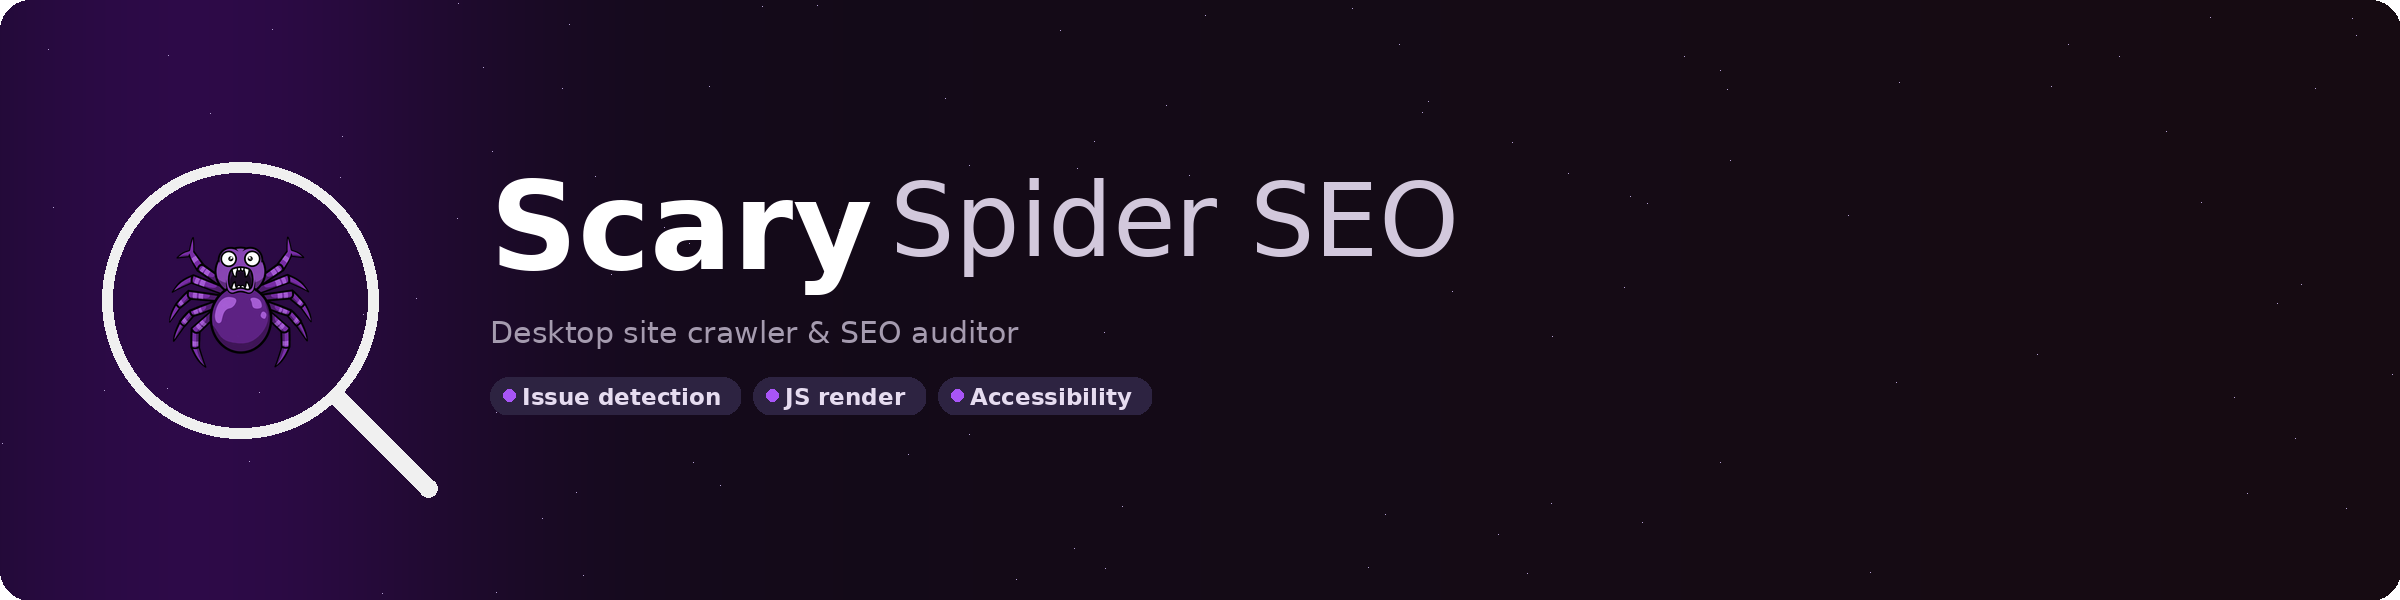
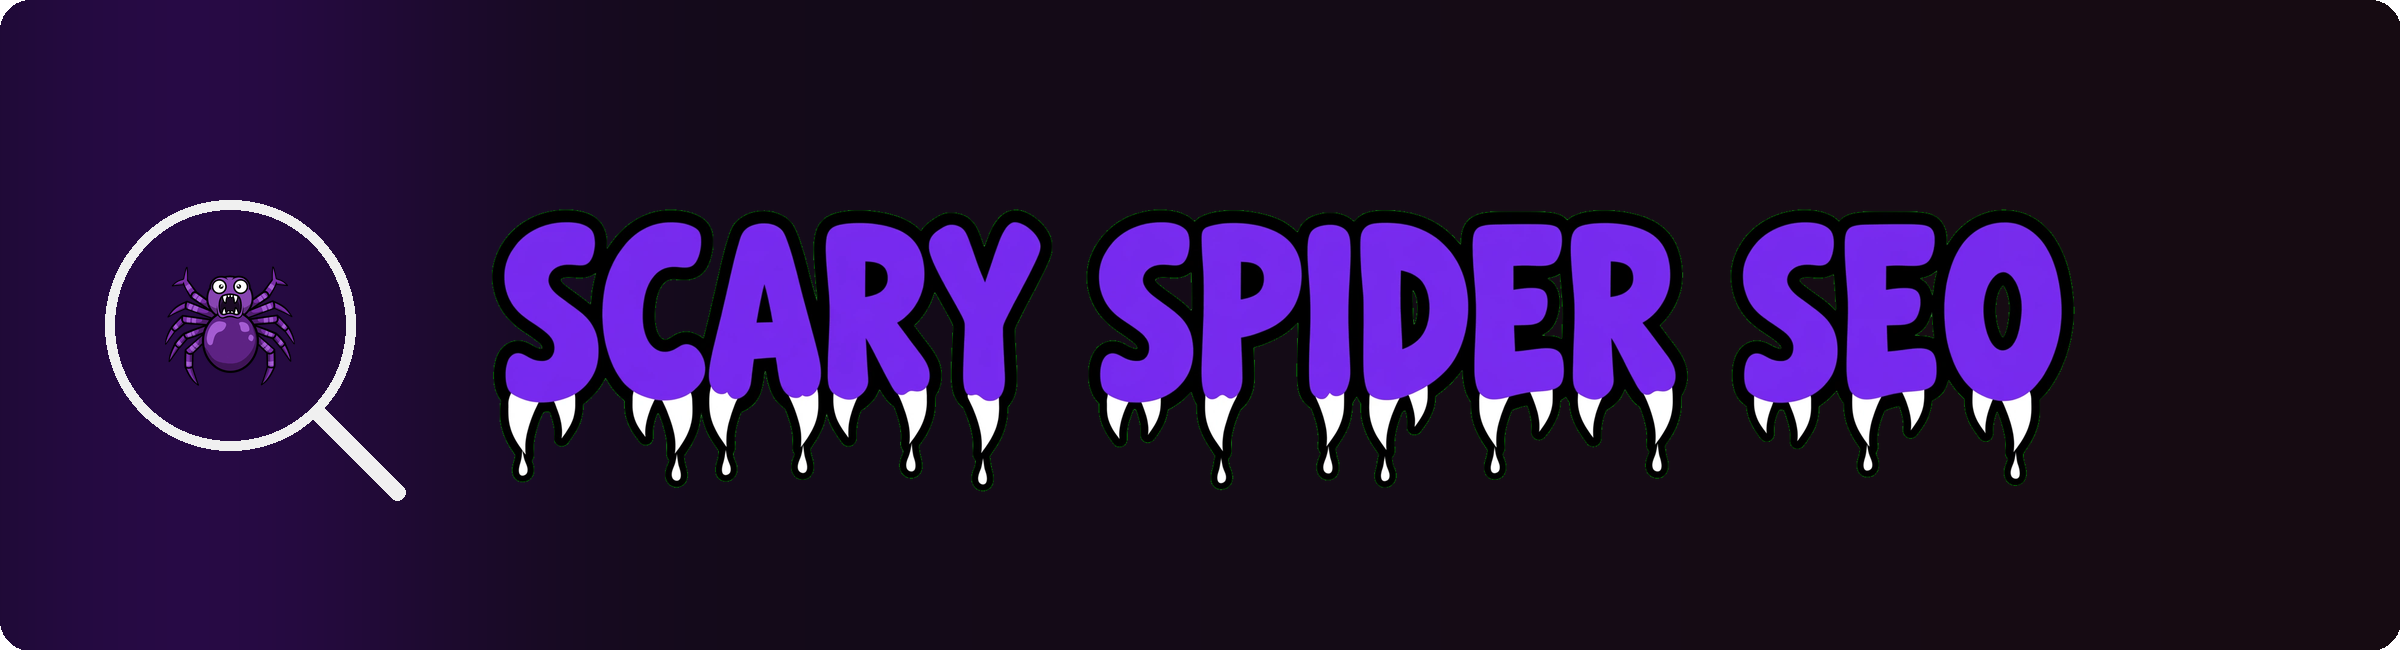
Rebrand app to Scary Spider SEO with purple comic-book UI theme
- Rename product from GSEO Crawler to Scary Spider SEO across README,
  package.json, Tauri config, release workflow, user agent string, and
  in-app strings so branding is consistent everywhere users see it.
- Replace header title with wordmark logo image and add new brand assets.
- Introduce comic-panel/comic-wobble utilities and a purple oklch palette
  to give buttons, cards, badges, dialogs, and sheets a hand-drawn,
  sticker-style look consistent with the new mascot branding.

diff --git a/src/index.css b/src/index.css
@@ -49,72 +49,74 @@
 }
 
 :root {
-    --background: oklch(1 0 0);
-    --foreground: oklch(0.145 0 0);
+    --background: oklch(0.99 0.005 293);
+    --foreground: oklch(0.16 0.02 293);
     --card: oklch(1 0 0);
-    --card-foreground: oklch(0.145 0 0);
+    --card-foreground: oklch(0.16 0.02 293);
     --popover: oklch(1 0 0);
-    --popover-foreground: oklch(0.145 0 0);
-    --primary: oklch(0.205 0 0);
-    --primary-foreground: oklch(0.985 0 0);
-    --secondary: oklch(0.97 0 0);
-    --secondary-foreground: oklch(0.205 0 0);
-    --muted: oklch(0.97 0 0);
-    --muted-foreground: oklch(0.556 0 0);
-    --accent: oklch(0.97 0 0);
-    --accent-foreground: oklch(0.205 0 0);
+    --popover-foreground: oklch(0.16 0.02 293);
+    --primary: oklch(0.541 0.281 293.009);
+    --primary-foreground: oklch(0.99 0 0);
+    --secondary: oklch(0.955 0.015 293);
+    --secondary-foreground: oklch(0.32 0.05 293);
+    --muted: oklch(0.965 0.012 293);
+    --muted-foreground: oklch(0.5 0.03 293);
+    --accent: oklch(0.93 0.035 293);
+    --accent-foreground: oklch(0.541 0.281 293.009);
     --destructive: oklch(0.577 0.245 27.325);
-    --border: oklch(0.922 0 0);
-    --input: oklch(0.922 0 0);
-    --ring: oklch(0.708 0 0);
+    --border: oklch(0.9 0.02 293);
+    --input: oklch(0.9 0.02 293);
+    --ring: oklch(0.606 0.25 292.717);
     --chart-1: oklch(0.87 0 0);
     --chart-2: oklch(0.556 0 0);
     --chart-3: oklch(0.439 0 0);
     --chart-4: oklch(0.371 0 0);
     --chart-5: oklch(0.269 0 0);
-    --radius: 0.625rem;
-    --sidebar: oklch(0.985 0 0);
-    --sidebar-foreground: oklch(0.145 0 0);
-    --sidebar-primary: oklch(0.205 0 0);
-    --sidebar-primary-foreground: oklch(0.985 0 0);
-    --sidebar-accent: oklch(0.97 0 0);
-    --sidebar-accent-foreground: oklch(0.205 0 0);
-    --sidebar-border: oklch(0.922 0 0);
-    --sidebar-ring: oklch(0.708 0 0);
+    --radius: 1rem;
+    --comic-ink: oklch(0.09 0.02 293);
+    --sidebar: oklch(0.97 0.012 293);
+    --sidebar-foreground: oklch(0.16 0.02 293);
+    --sidebar-primary: oklch(0.541 0.281 293.009);
+    --sidebar-primary-foreground: oklch(0.99 0 0);
+    --sidebar-accent: oklch(0.93 0.035 293);
+    --sidebar-accent-foreground: oklch(0.541 0.281 293.009);
+    --sidebar-border: oklch(0.9 0.02 293);
+    --sidebar-ring: oklch(0.606 0.25 292.717);
 }
 
 .dark {
-    --background: oklch(0.145 0 0);
+    --background: oklch(0.145 0.025 293);
     --foreground: oklch(0.985 0 0);
-    --card: oklch(0.205 0 0);
+    --card: oklch(0.205 0.035 293);
     --card-foreground: oklch(0.985 0 0);
-    --popover: oklch(0.205 0 0);
+    --popover: oklch(0.205 0.035 293);
     --popover-foreground: oklch(0.985 0 0);
-    --primary: oklch(0.922 0 0);
-    --primary-foreground: oklch(0.205 0 0);
-    --secondary: oklch(0.269 0 0);
+    --primary: oklch(0.606 0.25 292.717);
+    --primary-foreground: oklch(0.985 0 0);
+    --secondary: oklch(0.269 0.035 293);
     --secondary-foreground: oklch(0.985 0 0);
-    --muted: oklch(0.269 0 0);
-    --muted-foreground: oklch(0.708 0 0);
-    --accent: oklch(0.269 0 0);
+    --muted: oklch(0.269 0.035 293);
+    --muted-foreground: oklch(0.708 0.025 293);
+    --accent: oklch(0.32 0.06 293);
     --accent-foreground: oklch(0.985 0 0);
     --destructive: oklch(0.704 0.191 22.216);
-    --border: oklch(1 0 0 / 10%);
-    --input: oklch(1 0 0 / 15%);
-    --ring: oklch(0.556 0 0);
+    --border: oklch(0.7 0.04 293 / 15%);
+    --input: oklch(0.7 0.04 293 / 18%);
+    --ring: oklch(0.606 0.25 292.717);
     --chart-1: oklch(0.87 0 0);
     --chart-2: oklch(0.556 0 0);
     --chart-3: oklch(0.439 0 0);
     --chart-4: oklch(0.371 0 0);
     --chart-5: oklch(0.269 0 0);
-    --sidebar: oklch(0.205 0 0);
+    --sidebar: oklch(0.18 0.03 293);
     --sidebar-foreground: oklch(0.985 0 0);
-    --sidebar-primary: oklch(0.488 0.243 264.376);
+    --sidebar-primary: oklch(0.606 0.25 292.717);
     --sidebar-primary-foreground: oklch(0.985 0 0);
-    --sidebar-accent: oklch(0.269 0 0);
+    --sidebar-accent: oklch(0.32 0.06 293);
     --sidebar-accent-foreground: oklch(0.985 0 0);
-    --sidebar-border: oklch(1 0 0 / 10%);
-    --sidebar-ring: oklch(0.556 0 0);
+    --sidebar-border: oklch(0.7 0.04 293 / 12%);
+    --sidebar-ring: oklch(0.606 0.25 292.717);
+    --comic-ink: oklch(0.9 0.03 293);
 }
 
 @layer base {
@@ -127,6 +129,43 @@
   html {
     @apply font-sans;
     }
+}
+
+/* "Chrome" cartoon styling — thick ink outline + offset sticker shadow +
+   playful press/wobble. Applied to buttons/cards/badges/modals (the app
+   chrome), deliberately NOT to the dense data table so hundreds of rows
+   stay scannable. Defined with @utility (not a plain class) so they win
+   the cascade the same way Tailwind's own utilities do. */
+@utility comic-panel {
+  box-shadow: 4px 4px 0 0 var(--comic-ink);
+  transition: box-shadow 150ms ease;
+  &:hover {
+    box-shadow: 6px 7px 0 0 var(--comic-ink);
+  }
+  &:active {
+    box-shadow: 2px 2px 0 0 var(--comic-ink);
+  }
+}
+
+@utility comic-panel-sm {
+  box-shadow: 2px 2px 0 0 var(--comic-ink);
+  transition: box-shadow 150ms ease;
+  &:hover {
+    box-shadow: 3px 3px 0 0 var(--comic-ink);
+  }
+  &:active {
+    box-shadow: 1px 1px 0 0 var(--comic-ink);
+  }
+}
+
+@utility comic-wobble {
+  transition: transform 150ms cubic-bezier(0.34, 1.56, 0.64, 1);
+  &:hover {
+    transform: translate(-2px, -3px) rotate(-1deg);
+  }
+  &:active {
+    transform: translate(1px, 1px) rotate(0deg);
+  }
 }
 
 /* Thin native scrollbars (e.g. the data table's horizontal/vertical scroll) —

diff --git a/src/components/ui/button.tsx b/src/components/ui/button.tsx
@@ -4,19 +4,20 @@ import { cn } from "cn"
 import { Slot } from "radix-ui"
 
 const buttonVariants = cva(
-  "group/button inline-flex shrink-0 items-center justify-center rounded-lg border border-transparent bg-clip-padding text-sm font-medium whitespace-nowrap transition-all outline-none select-none focus-visible:border-ring focus-visible:ring-3 focus-visible:ring-ring/50 active:not-aria-[haspopup]:translate-y-px disabled:pointer-events-none disabled:opacity-50 aria-invalid:border-destructive aria-invalid:ring-3 aria-invalid:ring-destructive/20 dark:aria-invalid:border-destructive/50 dark:aria-invalid:ring-destructive/40 [&_svg]:pointer-events-none [&_svg]:shrink-0 [&_svg:not([class*='size-'])]:size-4",
+  "group/button comic-wobble inline-flex shrink-0 items-center justify-center rounded-lg border border-transparent bg-clip-padding text-sm font-medium whitespace-nowrap transition-all outline-none select-none focus-visible:border-ring focus-visible:ring-3 focus-visible:ring-ring/50 disabled:pointer-events-none disabled:opacity-50 aria-invalid:border-destructive aria-invalid:ring-3 aria-invalid:ring-destructive/20 dark:aria-invalid:border-destructive/50 dark:aria-invalid:ring-destructive/40 [&_svg]:pointer-events-none [&_svg]:shrink-0 [&_svg:not([class*='size-'])]:size-4",
   {
     variants: {
       variant: {
-        default: "bg-primary text-primary-foreground hover:bg-primary/80",
+        default:
+          "comic-panel border-[3px]! border-(--comic-ink)! bg-primary text-primary-foreground hover:bg-primary/90",
         outline:
-          "border-border bg-background hover:bg-muted hover:text-foreground aria-expanded:bg-muted aria-expanded:text-foreground dark:border-input dark:bg-input/30 dark:hover:bg-input/50",
+          "comic-panel border-[3px]! border-(--comic-ink)! bg-background hover:bg-muted hover:text-foreground aria-expanded:bg-muted aria-expanded:text-foreground dark:bg-input/30 dark:hover:bg-input/50",
         secondary:
-          "bg-secondary text-secondary-foreground hover:bg-[color-mix(in_oklch,var(--secondary),var(--foreground)_5%)] aria-expanded:bg-secondary aria-expanded:text-secondary-foreground",
+          "comic-panel border-[3px]! border-(--comic-ink)! bg-secondary text-secondary-foreground hover:bg-[color-mix(in_oklch,var(--secondary),var(--foreground)_5%)] aria-expanded:bg-secondary aria-expanded:text-secondary-foreground",
         ghost:
           "hover:bg-muted hover:text-foreground aria-expanded:bg-muted aria-expanded:text-foreground dark:hover:bg-muted/50",
         destructive:
-          "bg-destructive/10 text-destructive hover:bg-destructive/20 focus-visible:border-destructive/40 focus-visible:ring-destructive/20 dark:bg-destructive/20 dark:hover:bg-destructive/30 dark:focus-visible:ring-destructive/40",
+          "comic-panel border-[3px]! border-(--comic-ink)! bg-destructive/10 text-destructive hover:bg-destructive/20 focus-visible:ring-destructive/20 dark:bg-destructive/20 dark:hover:bg-destructive/30 dark:focus-visible:ring-destructive/40",
         link: "text-primary underline-offset-4 hover:underline",
       },
       size: {

diff --git a/src/components/ui/sheet.tsx b/src/components/ui/sheet.tsx
@@ -62,7 +62,7 @@ function SheetContent({
         data-slot="sheet-content"
         data-side={side}
         className={cn(
-          "fixed z-50 flex flex-col gap-4 bg-popover bg-clip-padding text-sm text-popover-foreground shadow-lg transition duration-200 ease-in-out data-[side=bottom]:inset-x-0 data-[side=bottom]:bottom-0 data-[side=bottom]:h-auto data-[side=bottom]:border-t data-[side=left]:inset-y-0 data-[side=left]:left-0 data-[side=left]:h-full data-[side=left]:w-3/4 data-[side=left]:border-r data-[side=right]:inset-y-0 data-[side=right]:right-0 data-[side=right]:h-full data-[side=right]:w-3/4 data-[side=right]:border-l data-[side=top]:inset-x-0 data-[side=top]:top-0 data-[side=top]:h-auto data-[side=top]:border-b data-[side=left]:sm:max-w-sm data-[side=right]:sm:max-w-sm data-open:animate-in data-open:fade-in-0 data-[side=bottom]:data-open:slide-in-from-bottom-10 data-[side=left]:data-open:slide-in-from-left-10 data-[side=right]:data-open:slide-in-from-right-10 data-[side=top]:data-open:slide-in-from-top-10 data-closed:animate-out data-closed:fade-out-0 data-[side=bottom]:data-closed:slide-out-to-bottom-10 data-[side=left]:data-closed:slide-out-to-left-10 data-[side=right]:data-closed:slide-out-to-right-10 data-[side=top]:data-closed:slide-out-to-top-10",
+          "fixed z-50 flex flex-col gap-4 border-(--comic-ink)! bg-popover bg-clip-padding text-sm text-popover-foreground shadow-lg transition duration-200 ease-in-out data-[side=bottom]:inset-x-0 data-[side=bottom]:bottom-0 data-[side=bottom]:h-auto data-[side=bottom]:border-t-[3px]! data-[side=left]:inset-y-0 data-[side=left]:left-0 data-[side=left]:h-full data-[side=left]:w-3/4 data-[side=left]:border-r-[3px]! data-[side=right]:inset-y-0 data-[side=right]:right-0 data-[side=right]:h-full data-[side=right]:w-3/4 data-[side=right]:border-l-[3px]! data-[side=top]:inset-x-0 data-[side=top]:top-0 data-[side=top]:h-auto data-[side=top]:border-b-[3px]! data-[side=left]:sm:max-w-sm data-[side=right]:sm:max-w-sm data-open:animate-in data-open:fade-in-0 data-[side=bottom]:data-open:slide-in-from-bottom-10 data-[side=left]:data-open:slide-in-from-left-10 data-[side=right]:data-open:slide-in-from-right-10 data-[side=top]:data-open:slide-in-from-top-10 data-closed:animate-out data-closed:fade-out-0 data-[side=bottom]:data-closed:slide-out-to-bottom-10 data-[side=left]:data-closed:slide-out-to-left-10 data-[side=right]:data-closed:slide-out-to-right-10 data-[side=top]:data-closed:slide-out-to-top-10",
           className
         )}
         {...props}

diff --git a/src/components/ui/badge.tsx b/src/components/ui/badge.tsx
@@ -4,17 +4,18 @@ import { cn } from "cn"
 import { Slot } from "radix-ui"
 
 const badgeVariants = cva(
-  "group/badge inline-flex h-5 w-fit shrink-0 items-center justify-center gap-1 overflow-hidden rounded-4xl border border-transparent px-2 py-0.5 text-xs font-medium whitespace-nowrap transition-all focus-visible:border-ring focus-visible:ring-[3px] focus-visible:ring-ring/50 has-data-[icon=inline-end]:pr-1.5 has-data-[icon=inline-start]:pl-1.5 aria-invalid:border-destructive aria-invalid:ring-destructive/20 dark:aria-invalid:ring-destructive/40 [&>svg]:pointer-events-none [&>svg]:size-3!",
+  "group/badge comic-wobble inline-flex h-5 w-fit shrink-0 items-center justify-center gap-1 overflow-hidden rounded-4xl border border-transparent px-2 py-0.5 text-xs font-medium whitespace-nowrap transition-all focus-visible:border-ring focus-visible:ring-[3px] focus-visible:ring-ring/50 has-data-[icon=inline-end]:pr-1.5 has-data-[icon=inline-start]:pl-1.5 aria-invalid:border-destructive aria-invalid:ring-destructive/20 dark:aria-invalid:ring-destructive/40 [&>svg]:pointer-events-none [&>svg]:size-3!",
   {
     variants: {
       variant: {
-        default: "bg-primary text-primary-foreground [a]:hover:bg-primary/80",
+        default:
+          "comic-panel-sm border-2! border-(--comic-ink)! bg-primary text-primary-foreground [a]:hover:bg-primary/80",
         secondary:
-          "bg-secondary text-secondary-foreground [a]:hover:bg-secondary/80",
+          "comic-panel-sm border-2! border-(--comic-ink)! bg-secondary text-secondary-foreground [a]:hover:bg-secondary/80",
         destructive:
-          "bg-destructive/10 text-destructive focus-visible:ring-destructive/20 dark:bg-destructive/20 dark:focus-visible:ring-destructive/40 [a]:hover:bg-destructive/20",
+          "comic-panel-sm border-2! border-(--comic-ink)! bg-destructive/10 text-destructive focus-visible:ring-destructive/20 dark:bg-destructive/20 dark:focus-visible:ring-destructive/40 [a]:hover:bg-destructive/20",
         outline:
-          "border-border text-foreground [a]:hover:bg-muted [a]:hover:text-muted-foreground",
+          "comic-panel-sm border-2! border-(--comic-ink)! text-foreground [a]:hover:bg-muted [a]:hover:text-muted-foreground",
         ghost:
           "hover:bg-muted hover:text-muted-foreground dark:hover:bg-muted/50",
         link: "text-primary underline-offset-4 hover:underline",

diff --git a/src/App.tsx b/src/App.tsx
@@ -430,7 +430,7 @@ function App() {
         const message = running
           ? "A crawl is currently running. Quitting now will stop it and lose progress. Quit anyway?"
           : "You have crawl results that haven't been saved. Quit anyway?";
-        const confirmed = await ask(message, { title: "Quit GSEO Crawler?", kind: "warning" });
+        const confirmed = await ask(message, { title: "Quit Scary Spider SEO?", kind: "warning" });
         if (!confirmed) {
           event.preventDefault();
         }
@@ -511,7 +511,7 @@ function App() {
   const handleSaveCrawl = useCallback(async () => {
     try {
       const path = await save({
-        filters: [{ name: "GSEO Crawl", extensions: ["json"] }],
+        filters: [{ name: "Scary Spider SEO Crawl", extensions: ["json"] }],
         defaultPath: "crawl.json",
       });
       if (!path) return;
@@ -525,7 +525,7 @@ function App() {
     try {
       const path = await open({
         multiple: false,
-        filters: [{ name: "GSEO Crawl", extensions: ["json"] }],
+        filters: [{ name: "Scary Spider SEO Crawl", extensions: ["json"] }],
       });
       if (!path || typeof path !== "string") return;
       const snapshot = await invoke<CrawlSnapshot>("load_crawl", { path });
@@ -598,8 +598,10 @@ function App() {
 
   return (
     <div className="flex h-screen flex-col">
-      <header className="flex items-center gap-2.5 border-b bg-card px-4 py-2.5">
-        <h1 className="text-sm font-semibold whitespace-nowrap">GSEO Crawler</h1>
+      <header className="flex items-center gap-2.5 border-b-[3px]! border-(--comic-ink)! bg-card px-4 py-2">
+        <h1>
+          <img src="/logo-wordmark.png" alt="Scary Spider SEO" className="h-24 w-auto" />
+        </h1>
         <UrlCombobox
           value={config.startUrl}
           disabled={running}

diff --git a/src/components/ui/card.tsx b/src/components/ui/card.tsx
@@ -11,7 +11,7 @@ function Card({
       data-slot="card"
       data-size={size}
       className={cn(
-        "group/card flex flex-col gap-(--card-spacing) overflow-hidden rounded-xl bg-card py-(--card-spacing) text-sm text-card-foreground ring-1 ring-foreground/10 [--card-spacing:--spacing(4)] has-data-[slot=card-footer]:pb-0 has-[>img:first-child]:pt-0 data-[size=sm]:[--card-spacing:--spacing(3)] data-[size=sm]:has-data-[slot=card-footer]:pb-0 *:[img:first-child]:rounded-t-xl *:[img:last-child]:rounded-b-xl",
+        "group/card comic-panel flex flex-col gap-(--card-spacing) overflow-hidden rounded-xl border-[3px]! border-(--comic-ink)! bg-card py-(--card-spacing) text-sm text-card-foreground [--card-spacing:--spacing(4)] has-data-[slot=card-footer]:pb-0 has-[>img:first-child]:pt-0 data-[size=sm]:[--card-spacing:--spacing(3)] data-[size=sm]:has-data-[slot=card-footer]:pb-0 *:[img:first-child]:rounded-t-xl *:[img:last-child]:rounded-b-xl",
         className
       )}
       {...props}

diff --git a/src/components/ui/dialog.tsx b/src/components/ui/dialog.tsx
@@ -59,7 +59,7 @@ function DialogContent({
       <DialogPrimitive.Content
         data-slot="dialog-content"
         className={cn(
-          "fixed top-1/2 left-1/2 z-50 grid w-full max-w-[calc(100%-2rem)] -translate-x-1/2 -translate-y-1/2 gap-4 rounded-xl bg-popover p-4 text-sm text-popover-foreground ring-1 ring-foreground/10 duration-100 outline-none sm:max-w-sm data-open:animate-in data-open:fade-in-0 data-open:zoom-in-95 data-closed:animate-out data-closed:fade-out-0 data-closed:zoom-out-95",
+          "comic-panel fixed top-1/2 left-1/2 z-50 grid w-full max-w-[calc(100%-2rem)] -translate-x-1/2 -translate-y-1/2 gap-4 rounded-xl border-[3px]! border-(--comic-ink)! bg-popover p-4 text-sm text-popover-foreground duration-100 outline-none sm:max-w-sm data-open:animate-in data-open:fade-in-0 data-open:zoom-in-95 data-closed:animate-out data-closed:fade-out-0 data-closed:zoom-out-95",
           className
         )}
         {...props}

diff --git a/src/components/DetailModal.tsx b/src/components/DetailModal.tsx
@@ -63,7 +63,7 @@ export function DetailModal({ title, fields, issues, onClose }: DetailModalProps
                 </CollapsibleTrigger>
                 <CollapsibleContent className="flex flex-col gap-3">
                   {issues.map((issue) => (
-                    <div key={issue.title} className="flex flex-col gap-1 rounded-md bg-card p-3 ring-1 ring-foreground/10">
+                    <div key={issue.title} className="comic-panel-sm flex flex-col gap-1 rounded-md border-2! border-(--comic-ink)! bg-card p-3">
                       <div className="text-sm font-medium">{issue.title}</div>
                       <p className="text-sm text-muted-foreground">{issue.problem}</p>
                       <p className="text-sm">{issue.fix}</p>

diff --git a/src/components/Overview.tsx b/src/components/Overview.tsx
@@ -60,8 +60,8 @@ function StatTile({
       type="button"
       onClick={onClick}
       className={cn(
-        "flex flex-col items-start gap-0 rounded-lg px-3 py-1.5 text-left ring-1 ring-foreground/10 transition-colors hover:bg-muted/60",
-        active && "bg-muted ring-ring/50",
+        "comic-panel-sm comic-wobble flex flex-col items-start gap-0 rounded-lg border-2! border-(--comic-ink)! px-3 py-1.5 text-left transition-colors hover:bg-muted/60",
+        active && "bg-muted",
       )}
     >
       <span className={cn("text-lg leading-tight font-semibold", tone && TONE_TEXT[tone])}>{value}</span>

diff --git a/src/types.ts b/src/types.ts
@@ -126,7 +126,7 @@ export const DEFAULT_CONFIG: CrawlConfig = {
   maxPages: 500,
   maxDepth: 10,
   concurrency: 5,
-  userAgent: "GSEOCrawler/0.1 (+https://worldcraftlogistics.com)",
+  userAgent: "ScarySpiderSEO/0.1 (+https://worldcraftlogistics.com)",
   timeoutSecs: 15,
   delayMs: 0,
   checkExternalLinks: true,

diff --git a/src-tauri/src/crawler/types.rs b/src-tauri/src/crawler/types.rs
@@ -45,7 +45,7 @@ fn default_concurrency() -> usize {
     5
 }
 fn default_user_agent() -> String {
-    "GSEOCrawler/0.1 (+https://worldcraftlogistics.com)".to_string()
+    "ScarySpiderSEO/0.1 (+https://worldcraftlogistics.com)".to_string()
 }
 fn default_timeout() -> u64 {
     15

diff --git a/README.md b/README.md
@@ -1,8 +1,8 @@
 <p align="center">
-  <img src="docs/banner.png" alt="GSEO Crawler" width="100%" />
+  <img src="docs/banner.png" alt="Scary Spider SEO" width="100%" />
 </p>
 
-# GSEO Crawler
+# Scary Spider SEO
 
 A desktop site crawler and SEO auditor built with **Tauri**, **React**, and **Rust**. Point it at a URL, crawl the site, and get a searchable, sortable table of every page and resource — with SEO/accessibility issues flagged inline, not buried in a report.
 
@@ -12,7 +12,7 @@ No build tools, no source code, no install wizard needed — grab a build for yo
 
 | Platform | Just want to run it | Prefer a proper install |
 | --- | --- | --- |
-| Windows | `GSEO-Crawler-portable-windows-x64.zip` — unzip, double-click `gseo-crawler.exe` | `.msi` or `.exe` installer |
+| Windows | `ScarySpiderSEO-portable-windows-x64.zip` — unzip, double-click `scary-spider-seo.exe` | `.msi` or `.exe` installer |
 | macOS (Apple Silicon) | — | `.dmg` (aarch64) |
 | macOS (Intel) | — | `.dmg` (x64) |
 | Linux | `.AppImage` — mark executable, double-click | `.deb` |
